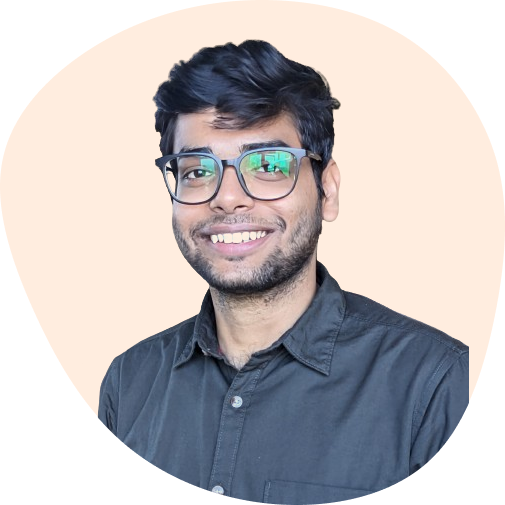
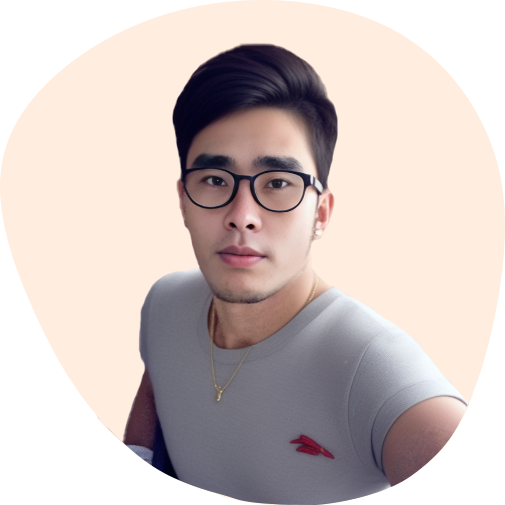
finished

diff --git a/frontend/app/contact/page.jsx b/frontend/app/contact/page.jsx
@@ -9,41 +9,48 @@ const Contact = () => {
                 <div className="grid xl:grid-cols-2 pt-12 xl:h-[480px] mb-6 xl:mb-24">
                     {/* text */}
                     <div className="flex flex-col justify-center">
-                        <div className="flex items-center gap-x-4 text-primary text-lg mb-4">
+                        <div className="flex gap-x-4 items-center mb-4 text-lg text-primary">
                             <span className="w-[30px] h-[2px] bg-primary"></span>
                             Say Hello 👋!
                         </div>
-                        <h1 className="h1 max-w-md mb-8">
+                        <h1 className="mb-8 max-w-md h1">
                             Let's Work Together.
                         </h1>
                         <p className="subtitle max-w-[400px]">
-                            I'm currently looking for any new opportunities,
-                            my inbox is always open. Whether you have a question
-                            or just want to say hi, I'll try my best to get back
-                            to you!
+                            I'm currently looking for any new opportunities, my
+                            inbox is always open. Whether you have a question or
+                            just want to say hi, I'll try my best to get back to
+                            you!
                         </p>
                     </div>
                     {/* illustration */}
-                    <div className="hidden xl:flex w-full bg-contact_illustration_light dark:bg-contact_illustration_dark bg-contain bg-top bg-no-repeat"></div>
+                    <div className="hidden w-full bg-top bg-no-repeat bg-contain xl:flex bg-contact_illustration_light dark:bg-contact_illustration_dark"></div>
                 </div>
                 {/* info text & form */}
-                <div className="grid xl:grid-cols-2 mb-24 xl:mb-32">
+                <div className="grid mb-24 xl:grid-cols-2 xl:mb-32">
                     {/* info text */}
-                    <div className="flex flex-col gap-y-4 xl:gap-y-14 mb-12 xl:mb-24 text-base xl:text-lg">
+                    <div className="flex flex-col gap-y-4 mb-12 text-base xl:gap-y-14 xl:mb-24 xl:text-lg">
                         {/* mail */}
-                        <div className="flex items-center gap-x-8">
-                            <MailIcon size={18} className="text-primary"/>
-                            <div><a href="mailto:itsnischay2604@gmail.com">itsnischay2604@gmail.com</a></div>
+                        <div className="flex gap-x-8 items-center">
+                            <MailIcon size={18} className="text-primary" />
+                            <div>
+                                <a href="mailto:krisato93@gmail.com">
+                                    krisato93@gmail.com
+                                </a>
+                            </div>
                         </div>
                         {/* address */}
-                        <div className="flex items-center gap-x-8">
-                            <HomeIcon size={18} className="text-primary"/>
-                            <div>Shri Mata Vaishno Devi University, Jammu, J&K, India - 182320</div>
+                        <div className="flex gap-x-8 items-center">
+                            <HomeIcon size={18} className="text-primary" />
+                            <div>
+                                Kristopher Ryan Sato University of Washington
+                                2011 - 2015
+                            </div>
                         </div>
                         {/* phone */}
-                        <div className="flex items-center gap-x-8">
-                            <PhoneCall size={18} className="text-primary"/>
-                            <div>(+91) 878 971 3201</div>
+                        <div className="flex gap-x-8 items-center">
+                            <PhoneCall size={18} className="text-primary" />
+                            <div>(+1) 206 792 9992</div>
                         </div>
                     </div>
                     <Form />

diff --git a/frontend/components/Socials.jsx b/frontend/components/Socials.jsx
@@ -1,41 +1,41 @@
-'use client'
+"use client";
 
 import {
-  RiLinkedinFill,
-  RiGithubFill,
-  RiTwitterFill,
-  RiInstagramFill,
-} from 'react-icons/ri'
+    RiLinkedinFill,
+    RiGithubFill,
+    RiTwitterFill,
+    RiInstagramFill,
+} from "react-icons/ri";
 
-import Link from 'next/link';
+import Link from "next/link";
 
 const icons = [
-  {
-    path: 'https://github.com/zeus2611',
-    name: <RiGithubFill />,
-  },
-  {
-    path: 'https://linkedin.com/in/nischay-2604',
-    name: <RiLinkedinFill />,
-  },
-  {
-    path: '/',
-    name: <RiTwitterFill />,
-  },
-]
+    {
+        path: "https://github.com/promewizard",
+        name: <RiGithubFill />,
+    },
+    {
+        path: "https://linkedin.com/in/kristopher-sato-16a695301",
+        name: <RiLinkedinFill />,
+    },
+    {
+        path: "/",
+        name: <RiTwitterFill />,
+    },
+];
 
-const Socials = ({containerStyles, iconStyles}) => {
-  return (
-    <div className={`${containerStyles}`}>
-      {icons.map((icon, index) => {
-        return (
-          <Link href={icon.path} key={index}>
-            <div className={`${iconStyles}`}>{icon.name}</div>
-          </Link>
-        )
-      })}
-    </div>
-  );
+const Socials = ({ containerStyles, iconStyles }) => {
+    return (
+        <div className={`${containerStyles}`}>
+            {icons.map((icon, index) => {
+                return (
+                    <Link href={icon.path} key={index}>
+                        <div className={`${iconStyles}`}>{icon.name}</div>
+                    </Link>
+                );
+            })}
+        </div>
+    );
 };
 
 export default Socials;

diff --git a/frontend/components/Nav.jsx b/frontend/components/Nav.jsx
@@ -1,12 +1,12 @@
 import Link from "next/link";
 import { usePathname } from "next/navigation";
-import { motion } from 'framer-motion';
+import { motion } from "framer-motion";
 
 const links = [
-    { path: '/', label: 'Home' },
-    { path: '/projects', label: 'Projects' },
-    { path: '/contact', label: 'Contact' }
-]
+    { path: "/", label: "Home" },
+    { path: "/projects", label: "Projects" },
+    { path: "/contact", label: "Contact" },
+];
 
 const Nav = ({ containerStyles, linkStyles, underlineStyles }) => {
     const path = usePathname();
@@ -20,10 +20,10 @@ const Nav = ({ containerStyles, linkStyles, underlineStyles }) => {
                         className={`capitalize ${linkStyles}`}
                     >
                         {link.path === path && (
-                            <motion.sapn
-                                initial={{ y: '-100%' }}
+                            <motion.span
+                                initial={{ y: "-100%" }}
                                 animate={{ y: 0 }}
-                                transition={{ type: 'tween' }}
+                                transition={{ type: "tween" }}
                                 layoutId="underline"
                                 className={`${underlineStyles}`}
                             />
@@ -34,6 +34,6 @@ const Nav = ({ containerStyles, linkStyles, underlineStyles }) => {
             })}
         </nav>
     );
-}
+};
 
 export default Nav;

diff --git a/frontend/components/Footer.jsx b/frontend/components/Footer.jsx
@@ -1,20 +1,23 @@
 import Socials from "./Socials";
 
 const Footer = () => {
-  return (
-    <footer className="bg-secondary py-12">
-      <div className="container mx-auto">
-        <div className="flex flex-col items-center justify-between">
-          {/* Socials */}
-          <Socials containerStyles='flex gap-x-6 mx-auto xl:mx-0 mb-4' iconStyles='text-primary dark:text-white/70 text-[20px] hover:text-white dark:hover:text-primary transition-all' />
-          {/* copyright */}
-          <div className="text-muted-foreground">
-            Copyright &copy; Nischay. All rights reserved.
-          </div>
-        </div>
-      </div>
-    </footer>
-  );
+    return (
+        <footer className="py-12 bg-secondary">
+            <div className="container mx-auto">
+                <div className="flex flex-col justify-between items-center">
+                    {/* Socials */}
+                    <Socials
+                        containerStyles="flex gap-x-6 mx-auto xl:mx-0 mb-4"
+                        iconStyles="text-primary dark:text-white/70 text-[20px] hover:text-white dark:hover:text-primary transition-all"
+                    />
+                    {/* copyright */}
+                    <div className="text-muted-foreground">
+                        Copyright &copy; @Krisato. All rights reserved.
+                    </div>
+                </div>
+            </div>
+        </footer>
+    );
 };
 
 export default Footer;

diff --git a/frontend/app/template.jsx b/frontend/app/template.jsx
@@ -1,4 +1,4 @@
-'use client'
+"use client";
 
 import useScrollProgress from "@/hooks/useScrollProgress";
 import { motion } from "framer-motion";
@@ -6,23 +6,26 @@ import { motion } from "framer-motion";
 const variants = {
     hidden: { opacity: 0 },
     enter: { opacity: 1 },
-}
+};
 
 const Template = ({ children }) => {
     const completion = useScrollProgress();
     return (
         <>
-            <motion.main 
-                variants={variants} 
-                initial="hidden" 
-                animate="enter" 
+            <motion.main
+                variants={variants}
+                initial="hidden"
+                animate="enter"
                 transition={{ type: "linear", duration: 0.4, delay: 0.2 }}
             >
                 {children}
             </motion.main>
-            <span style={{transform: 'translateX(${completion - 100}%)'}} className="fixed z-50 bg-primary w-1 top-0 right-0 bottom-0 transition-all duration-700"></span>
+            <span
+                style={{ transform: "translateX(${completion - 100}%)" }}
+                className="fixed top-0 right-0 bottom-0 z-50 w-1 transition-all duration-700 bg-primary"
+            ></span>
         </>
-    )
+    );
 };
 
 export default Template;

diff --git a/frontend/components/ProjectCard.jsx b/frontend/components/ProjectCard.jsx
@@ -3,7 +3,7 @@ import Image from "next/image";
 import { cn } from "@/lib/utils";
 import { Card, CardHeader } from "./ui/card";
 import { Link2Icon } from "lucide-react";
-import { GitHubLogoIcon } from "@radix-ui/react-icons";
+import { PaperPlaneIcon } from "@radix-ui/react-icons";
 import { Badge } from "./ui/badge";
 
 const ProjectCard = ({ project, className, ...props }) => {
@@ -31,7 +31,7 @@ const ProjectCard = ({ project, className, ...props }) => {
                             href={project.github}
                             className="bg-secondary w-[54px] h-[54px] rounded-full flex justify-center items-center scale-0 opacity-0 group-hover:scale-100 group-hover:opacity-100 transition-all duration-200"
                         >
-                            <GitHubLogoIcon className="w-[24px] h-[24px] text-white" />
+                            <PaperPlaneIcon className="w-[24px] h-[24px] text-white" />
                         </Link>
                     </div>
                 </div>

diff --git a/frontend/app/layout.js b/frontend/app/layout.js
@@ -4,14 +4,14 @@ import "./globals.css";
 const inter = Inter({ subsets: ["latin"] });
 
 export const metadata = {
-  title: "Nischay",
-  description: "Professional Portfolio of Nischay",
+    title: "Krisato",
+    description: "Professional Portfolio of Kristopher Sato",
 };
 
 export default function RootLayout({ children }) {
-  return (
-    <html lang="en">
-      <body className={inter.className}>{children}</body>
-    </html>
-  );
+    return (
+        <html lang="en">
+            <body className={inter.className}>{children}</body>
+        </html>
+    );
 }

diff --git a/frontend/components/Certificates.jsx b/frontend/components/Certificates.jsx
@@ -4,14 +4,12 @@ import { Swiper, SwiperSlide } from "swiper/react";
 
 import "swiper/css";
 import Link from "next/link";
-import { Link2Icon } from "lucide-react";
-import { Button } from "./ui/button";
 import "swiper/css/pagination";
 import { Pagination } from "swiper/modules";
 import { Card, CardHeader, CardTitle } from "./ui/card";
 import Image from "next/image";
 
-// const ServerUrl = process.env.NEXT_PUBLIC_SERVER_URL;
+const ServerUrl = process.env.NEXT_PUBLIC_SERVER_URL;
 
 const Certificates = () => {
     const [certs, setCerts] = useState([]);

diff --git a/frontend/components/Logo.jsx b/frontend/components/Logo.jsx
@@ -2,11 +2,11 @@ import Link from "next/link";
 import Image from "next/image";
 
 const Logo = () => {
-  return (
-    <Link href="/">
-      <Image src='/logo.svg' width={54} height={54} priority alt="nischay" />
-      </Link>
-  );
-}
+    return (
+        <Link href="/">
+            <Image src="/K.png" width={54} height={54} priority alt="Krisato" />
+        </Link>
+    );
+};
 
-export default Logo; 
+export default Logo;

diff --git a/frontend/app/page.jsx b/frontend/app/page.jsx
@@ -5,11 +5,13 @@ import Hero from "@/components/Hero";
 import Work from "@/components/Work";
 
 export default function Home() {
-  return <main>
-    <Hero />
-    <About />
-    <Work />
-    <Certificates />
-    <Cta />
-  </main>;
+    return (
+        <main>
+            <Hero />
+            <About />
+            <Work />
+            {/* <Certificates /> */}
+            <Cta />
+        </main>
+    );
 }

diff --git a/backendAPI/models/project_model.go b/backendAPI/models/project_model.go
@@ -3,7 +3,7 @@ package models
 import "go.mongodb.org/mongo-driver/bson/primitive"
 
 type Project struct {
-	Id          primitive.ObjectID `json:"_id,omitempty"`
+	Id          primitive.ObjectID `json:"id,omitempty"`
 	Name        string             `json:"name,omitempty" validate:"required"`
 	Description string             `json:"description,omitempty" validate:"required"`
 	GitHub      string             `json:"github,omitempty" validate:"required"`
